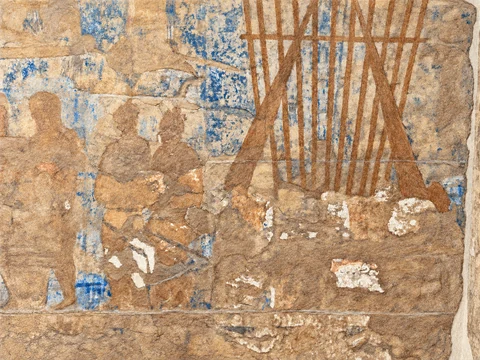
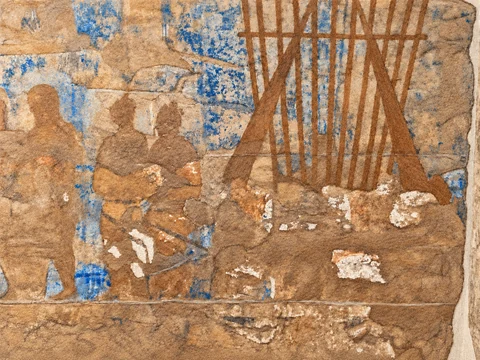
Add Bibi Khanym, Chashma Ayub and hotel view; clarify mural traces

diff --git a/src/render-guide.js b/src/render-guide.js
@@ -34,5 +34,6 @@ export function renderGuide(essentials = []) {
     ${[samarkand,tashkent,bishkek,cholponata,almaty].map(city=>renderNarrative(city,{id:`history-${city.slug}`,placement:city.slug})).join('')}
     ${renderNarrative(comparative,{id:'architecture-comparative',placement:'comparative'})}
     <section class="architecture-guide" id="architecture-guide"><h3>우즈베키스탄 이슬람 건축 유산</h3>${architecture.map(city=>`<details class="architecture-city"><summary><span class="city-name">${esc(city.city)} <small>${esc(city.en)}</small></span><span class="city-subtitle">${esc(city.subtitle)}</span></summary><div class="architecture-city-body"><p>${esc(city.intro)}</p>${renderIllustration(`architecture:${city.en}:intro`)}${city.sites.map(([name,en,description])=>`<div class="architecture-site"><h4>${esc(name)} <small>${esc(en)}</small></h4><p>${esc(description)}</p></div>`).join('')}</div></details>`).join('')}${renderSources([['UNESCO 사마르칸트','https://whc.unesco.org/en/list/603/'],['UNESCO 부하라','https://whc.unesco.org/en/list/602/']])}</section>
+    <details class="travel-lodging-view"><summary>숙소에서 본 풍경</summary><p>여행 메모: 3층 객실, 엘리베이터 없음. 호텔명은 확인 중입니다.</p>${renderIllustration('travel:lodging:view')}</details>
     ${essentials.filter(e=>e.title!=='현지 여행 회화').map(e=>`<details><summary>${esc(e.title)}</summary><p>${esc(e.body)}</p></details>`).join('')}`;
 }

diff --git a/tests/service-worker.test.js b/tests/service-worker.test.js
@@ -4,7 +4,7 @@ import fs from 'node:fs';
 import vm from 'node:vm';
 
 const source = fs.readFileSync(new URL('../public/sw.js', import.meta.url), 'utf8');
-const current = 'ca26-pages-v9-museum-photos';
+const current = 'ca26-pages-v10-sites-feathers';
 function worker({ put = async () => {}, fetch = async () => new Response('network') } = {}) {
   const stores = new Map(), handlers = {};
   const caches = {
@@ -32,7 +32,7 @@ function worker({ put = async () => {}, fetch = async () => new Response('networ
 
 test('worker upgrade deletes only older travel-guide caches and preserves other sites', async () => {
   const { stores, handlers } = worker();
-  for (const key of ['ca26-pages-v5-bukhara-registan', 'ca26-pages-v6-three-country-guide', 'ca26-pages-v7-minaret-refresh', 'ca26-pages-v8-reflection-cleanup', current, 'other-site-v1']) stores.set(key, new Map());
+  for (const key of ['ca26-pages-v5-bukhara-registan', 'ca26-pages-v6-three-country-guide', 'ca26-pages-v7-minaret-refresh', 'ca26-pages-v8-reflection-cleanup', 'ca26-pages-v9-museum-photos', current, 'other-site-v1']) stores.set(key, new Map());
   let completion;
   handlers.activate({ waitUntil: promise => { completion = promise; } });
   await completion;

diff --git a/public/sw.js b/public/sw.js
@@ -1,4 +1,4 @@
-const CACHE = 'ca26-pages-v9-museum-photos';
+const CACHE = 'ca26-pages-v10-sites-feathers';
 const CACHE_PREFIX = 'ca26-pages-';
 const ROOT = '/codex/';
 

diff --git a/docs/audit/destination-images.md b/docs/audit/destination-images.md
@@ -25,25 +25,25 @@ Pages Actions [39142365237](https://github.com/JinhaPark/codex/actions/runs/3914
 |---|---|---|---|---|---|---|
 | 대한민국 | 2026-10-12 인천 → 타슈켄트<br>2026-10-21 인천 도착 | 인천국제공항 | 없음 (확정 대응 없음) | 대응 그림 없음 | 선택 사항 | 이동 지점·포괄 도시 항목: 필수 사진 요청 대상 아님 |
 | 우즈베키스탄 | 2026-10-12 인천 → 타슈켄트 | 타슈켄트 국제공항 | 없음 (확정 대응 없음) | 대응 그림 없음 | 선택 사항 | 이동 지점·포괄 도시 항목: 필수 사진 요청 대상 아님 |
-| 우즈베키스탄 | 2026-10-13 타슈켄트 → 부하라 | 부하라 아르크 성채 | bukhara-ark-walls-pencil — 부하라 아르크 성채 — 벽돌 성벽과 돌출 보루 | 여행 해설 → 부하라 도시사 심층 해설 → 11. 부하라 칸국과 에미르국: 궁정과 권력 (bukhara:10:0) | 확보 | 없음 |
-| 우즈베키스탄 | 2026-10-13 타슈켄트 → 부하라 | 칼랸 미나레트 | bukhara-kalyan-minaret-pencil — 부하라 칼랸 미나레트 — 벽돌로 만든 기하학 장식 띠<br>bukhara-poi-kalyan-watercolor — 부하라 포이칼랸 — 미리아랍 마드라사와 칼랸 미나레트·모스크 | 여행 해설 → 부하라 도시사 심층 해설 → 5. 카라한 왕조와 칼랸 미나레트 (bukhara:4:1)<br>여행 해설 → 부하라 도시사 심층 해설 → 8. 샤이바니 왕조: 오늘날 옛 시가지의 골격 (bukhara:7:1) | 확보 | 없음 |
-| 우즈베키스탄 | 2026-10-13 타슈켄트 → 부하라 | 라비하우즈 | lyabi-hauz-evening-watercolor — 부하라 라비하우즈 — 연못가 식탁과 저녁 분수<br>lyabi-hauz-portal-watercolor — 부하라 라비하우즈 연못 — 분수와 아치형 입구 | 일정 3일차 → 방문지와 지도 (day:2:places)<br>여행 해설 → 부하라 도시사 심층 해설 → 9. 17세기 라비하우즈: 물·상업·교육의 만남 (bukhara:8:0) | 확보 | 없음 |
+| 우즈베키스탄 | 2026-10-13 타슈켄트 → 부하라 | 부하라 아르크 성채 | bukhara-ark-walls-pencil — 부하라 아르크 성채 — 벽돌 성벽과 돌출 보루 | 여행 해설 → 부하라 도시사 심층 해설 → 11. 부하라 칸국과 에미르국: 궁정과 권력 (`bukhara:10:0`) | 확보 | 없음 |
+| 우즈베키스탄 | 2026-10-13 타슈켄트 → 부하라 | 칼랸 미나레트 | bukhara-kalyan-minaret-pencil — 부하라 칼랸 미나레트 — 벽돌로 만든 기하학 장식 띠<br>bukhara-poi-kalyan-watercolor — 부하라 포이칼랸 — 미리아랍 마드라사와 칼랸 미나레트·모스크 | 여행 해설 → 부하라 도시사 심층 해설 → 5. 카라한 왕조와 칼랸 미나레트 (`bukhara:4:1`)<br>여행 해설 → 부하라 도시사 심층 해설 → 8. 샤이바니 왕조: 오늘날 옛 시가지의 골격 (`bukhara:7:1`) | 확보 | 없음 |
+| 우즈베키스탄 | 2026-10-13 타슈켄트 → 부하라 | 라비하우즈 | lyabi-hauz-evening-watercolor — 부하라 라비하우즈 — 연못가 식탁과 저녁 분수<br>lyabi-hauz-portal-watercolor — 부하라 라비하우즈 연못 — 분수와 아치형 입구 | 일정 3일차 → 방문지와 지도 (`day:2:places`)<br>여행 해설 → 부하라 도시사 심층 해설 → 9. 17세기 라비하우즈: 물·상업·교육의 만남 (`bukhara:8:0`) | 확보 | 없음 |
 | 우즈베키스탄 | 2026-10-13 타슈켄트 → 부하라 | 나디르 디반베기 마드라사 | 없음 (확정 대응 없음) | 대응 그림 없음 | 장소 확인 필요 | 라비하우즈 아치 사진 IMG_8854.jpeg는 마드라사 정면이라고 확정할 수 없음. 새·동물 문양의 정면 사진 필요 |
-| 우즈베키스탄 | 2026-10-14 부하라 → 사마르칸트 | 이스마일 사마니 영묘 | bukhara-samani-watercolor — 부하라 이스마일 사마니 영묘 — 돔과 벽돌 장식 | 여행 해설 → 부하라 도시사 심층 해설 → 4. 사만 왕조: 부하라의 첫 번째 황금기 (bukhara:3:0) | 확보 | 사진 추가 반영 완료; 실제 표시 위치는 최신 현황표 참조 |
-| 우즈베키스탄 | 2026-10-14 부하라 → 사마르칸트 | 차슈마 아유브 영묘 | 없음 (확정 대응 없음) | 대응 그림 없음 | 누락 | 장소가 식별되는 전경 또는 입구 사진 |
+| 우즈베키스탄 | 2026-10-14 부하라 → 사마르칸트 | 이스마일 사마니 영묘 | bukhara-samani-watercolor — 부하라 이스마일 사마니 영묘 — 돔과 벽돌 장식 | 여행 해설 → 부하라 도시사 심층 해설 → 4. 사만 왕조: 부하라의 첫 번째 황금기 (`bukhara:3:0`) | 확보 | 사진 추가 반영 완료; 실제 표시 위치는 최신 현황표 참조 |
+| 우즈베키스탄 | 2026-10-14 부하라 → 사마르칸트 | 차슈마 아유브 영묘 | bukhara-chashma-ayub-watercolor — 부하라 차슈마 아유브 — 원뿔형 지붕과 벽돌 외벽 | 여행 해설 → 부하라 → 15. 현장에서 읽는 부하라: 하루 답사법 (`bukhara:14:1`) | 확보 | 사진 추가 반영 완료 |
 | 우즈베키스탄 | 2026-10-14 부하라 → 사마르칸트 | 시토라이 모히 호사 궁전 | 없음 (확정 대응 없음) | 대응 그림 없음 | 누락 | 장소가 식별되는 전경 또는 입구 사진 |
-| 우즈베키스탄 | 2026-10-14 부하라 → 사마르칸트<br>2026-10-15 사마르칸트 → 타슈켄트 | 레기스탄 광장 | registan-travel-portrait-watercolor — 레기스탄 광장 — 세 마드라사를 배경으로<br>registan-gilded-ceiling-pencil — 레기스탄의 청색·금빛 천장 장식<br>samarkand-turquoise-dome-pencil — 레기스탄 — 나무 사이로 보이는 청록색 돔 | 여행 해설 → 사마르칸트 → 레기스탄의 세 마드라사 (samarkand:9:0)<br>여행 해설 → 이슬람 건축 읽기 — 벽돌·타일·곡선 → 재료에서 공간으로 (comparative:0:6)<br>여행 해설 → 건축 유산 → 사마르칸트 (architecture:Samarkand:intro) | 확보 | 없음; 개별 전각명은 미확정 |
-| 우즈베키스탄 | 2026-10-15 사마르칸트 → 타슈켄트 | 비비하눔 모스크 | 없음 (확정 대응 없음) | 대응 그림 없음 | 누락 | 장소가 식별되는 전경 또는 입구 사진 |
-| 우즈베키스탄 | 2026-10-15 사마르칸트 → 타슈켄트 | 아프라시압 박물관 | afrasiyab-envoys-pencil — 아프라시압 벽화 — 깃털 관모의 인물들 | 여행 해설 → 사마르칸트 → 소그드 상인과 세계의 교차로 (samarkand:1:0) | 확보 | 사진 추가 반영 완료; 실제 표시 위치는 최신 현황표 참조 |
-| 우즈베키스탄 | 2026-10-15 사마르칸트 → 타슈켄트 | 울루그벡 천문대 | ulughbeg-meridian-pencil — 울루그벡 천문대 — 지하 자오선 관측기의 곡선 눈금<br>ulughbeg-year-exhibit-photo — 울루그벡 천문대 전시 — 행성 운동과 1년 길이 비교<br>ulughbeg-statue-pencil — 사마르칸트 울루그벡 동상 — 앉은 모습과 명판 | 여행 해설 → 사마르칸트 → 울루그베크와 천문학의 도시 (samarkand:8:0)<br>여행 해설 → 사마르칸트 → 울루그베크와 천문학의 도시 (samarkand:8:1)<br>여행 해설 → 사마르칸트 → 울루그베크와 천문학의 도시 (samarkand:8:2) | 확보 | 사진 추가 반영 완료; 실제 표시 위치는 최신 현황표 참조 |
+| 우즈베키스탄 | 2026-10-14 부하라 → 사마르칸트<br>2026-10-15 사마르칸트 → 타슈켄트 | 레기스탄 광장 | registan-travel-portrait-watercolor — 레기스탄 광장 — 세 마드라사를 배경으로<br>registan-gilded-ceiling-pencil — 레기스탄의 청색·금빛 천장 장식<br>samarkand-turquoise-dome-pencil — 레기스탄 — 나무 사이로 보이는 청록색 돔 | 여행 해설 → 사마르칸트 → 레기스탄의 세 마드라사 (`samarkand:9:0`)<br>여행 해설 → 이슬람 건축 읽기 — 벽돌·타일·곡선 → 재료에서 공간으로 (`comparative:0:6`)<br>여행 해설 → 우즈베키스탄 이슬람 건축 유산 → 사마르칸트 Samarkand청색 타일의 도시 (`architecture:Samarkand:intro`) | 확보 | 없음; 개별 전각명은 미확정 |
+| 우즈베키스탄 | 2026-10-15 사마르칸트 → 타슈켄트 | 비비하눔 모스크 | samarkand-bibi-khanym-watercolor — 사마르칸트 비비하눔 모스크 — 청록색 돔과 미나레트 | 여행 해설 → 사마르칸트 → 비비하눔 모스크의 야망과 구조 (`samarkand:6:0`) | 확보 | 사진 추가 반영 완료 |
+| 우즈베키스탄 | 2026-10-15 사마르칸트 → 타슈켄트 | 아프라시압 박물관 | afrasiyab-envoys-pencil — 아프라시압 벽화 — 깃털 관모의 인물들 | 여행 해설 → 사마르칸트 → 소그드 상인과 세계의 교차로 (`samarkand:1:0`) | 확보 | 사진 추가 반영 완료; 실제 표시 위치는 최신 현황표 참조 |
+| 우즈베키스탄 | 2026-10-15 사마르칸트 → 타슈켄트 | 울루그벡 천문대 | ulughbeg-meridian-pencil — 울루그벡 천문대 — 지하 자오선 관측기의 곡선 눈금<br>ulughbeg-year-exhibit-photo — 울루그벡 천문대 전시 — 행성 운동과 1년 길이 비교<br>ulughbeg-statue-pencil — 사마르칸트 울루그벡 동상 — 앉은 모습과 명판 | 여행 해설 → 사마르칸트 → 울루그베크와 천문학의 도시 (`samarkand:8:0`)<br>여행 해설 → 사마르칸트 → 울루그베크와 천문학의 도시 (`samarkand:8:1`)<br>여행 해설 → 사마르칸트 → 울루그베크와 천문학의 도시 (`samarkand:8:2`) | 확보 | 사진 추가 반영 완료; 실제 표시 위치는 최신 현황표 참조 |
 | 우즈베키스탄 | 2026-10-15 사마르칸트 → 타슈켄트 | 구르에미르 영묘 | 없음 (확정 대응 없음) | 대응 그림 없음 | 누락 | 장소가 식별되는 전경 또는 입구 사진 |
-| 우즈베키스탄 → 키르기스스탄 | 2026-10-16 타슈켄트 → 비슈케크 | 타슈켄트 미노르 모스크 | tashkent-minor-ceiling-pencil — 타슈켄트 미노르 모스크 — 청색·금빛 원형 천장 | 여행 해설 → 타슈켄트 → 미노르 모스크와 현대 이슬람 건축 (tashkent:10:0) | 확보 | 사진 추가 반영 완료; 실제 표시 위치는 최신 현황표 참조 |
+| 우즈베키스탄 → 키르기스스탄 | 2026-10-16 타슈켄트 → 비슈케크 | 타슈켄트 미노르 모스크 | tashkent-minor-ceiling-pencil — 타슈켄트 미노르 모스크 — 청색·금빛 원형 천장 | 여행 해설 → 타슈켄트 → 미노르 모스크와 현대 이슬람 건축 (`tashkent:10:0`) | 확보 | 사진 추가 반영 완료; 실제 표시 위치는 최신 현황표 참조 |
 | 우즈베키스탄 → 키르기스스탄 | 2026-10-16 타슈켄트 → 비슈케크 | 아미르 티무르 광장 | 없음 (확정 대응 없음) | 대응 그림 없음 | 누락 | 장소가 식별되는 전경 또는 입구 사진 |
 | 우즈베키스탄 → 키르기스스탄 | 2026-10-16 타슈켄트 → 비슈케크 | 하즈라티 이맘 단지 | 없음 (확정 대응 없음) | 대응 그림 없음 | 장소 확인 필요 | 필사본 사진 IMG_CCB3F9C2-FF9E-4904-8198-27036C9E7AA7.jpeg의 실제 촬영 장소 확인 또는 단지 전경 |
 | 우즈베키스탄 → 키르기스스탄 | 2026-10-16 타슈켄트 → 비슈케크 | 마나스 국제공항 | 없음 (확정 대응 없음) | 대응 그림 없음 | 선택 사항 | 이동 지점·포괄 도시 항목: 필수 사진 요청 대상 아님 |
-| 키르기스스탄 | 2026-10-17 비슈케크 → 촐폰아타 | 루흐 오르도 문화센터 | rukh-ordo-garden-pencil — 촐폰아타 루흐 오르도 문화센터의 조각 정원 | 여행 해설 → 촐폰아타 → 루흐 오르도 문화센터의 상징 (cholponata:9:0) | 부분 확보 | 조각 정원 확보. 단지 입구·전체 배치 또는 주요 건물 사진 추가 가능 |
-| 키르기스스탄 | 2026-10-17 비슈케크 → 촐폰아타 | 촐폰아타 암각화 | cholponata-petroglyph-field-watercolor — 촐폰아타 암각화 야외박물관 — 바위 들판과 답사로<br>cholponata-balbal-pencil — 촐폰아타 암각화 야외박물관의 발발(Balbal) 인물 석상 | 여행 해설 → 촐폰아타 → 암각화의 시간층 (cholponata:2:0)<br>일정 6일차 → 방문지와 지도 (day:5:places) | 부분 확보 | 야외박물관 들판과 발발 확보. 바위의 암각 문양이 보이는 근접 사진 필요 |
-| 키르기스스탄 | 2026-10-17 비슈케크 → 촐폰아타 | 이식쿨 호수 | issyk-kul-cruise-tian-shan-watercolor — 이식쿨호 유람선에서 바라본 톈산산맥의 설산 능선 | 여행 해설 → 1. 지리·기후·생활양식 → 이식쿨과 알마티의 서로 다른 산록 (geography:2:0) | 확보 | 없음 |
+| 키르기스스탄 | 2026-10-17 비슈케크 → 촐폰아타 | 루흐 오르도 문화센터 | rukh-ordo-garden-pencil — 촐폰아타 루흐 오르도 문화센터의 조각 정원 | 여행 해설 → 촐폰아타 → 루흐 오르도 문화센터의 상징 (`cholponata:9:0`) | 부분 확보 | 조각 정원 확보. 단지 입구·전체 배치 또는 주요 건물 사진 추가 가능 |
+| 키르기스스탄 | 2026-10-17 비슈케크 → 촐폰아타 | 촐폰아타 암각화 | cholponata-petroglyph-field-watercolor — 촐폰아타 암각화 야외박물관 — 바위 들판과 답사로<br>cholponata-balbal-pencil — 촐폰아타 암각화 야외박물관의 발발(Balbal) 인물 석상 | 여행 해설 → 촐폰아타 → 암각화의 시간층 (`cholponata:2:0`)<br>일정 6일차 → 방문지와 지도 (`day:5:places`) | 부분 확보 | 야외박물관 들판과 발발 확보. 바위의 암각 문양이 보이는 근접 사진 필요 |
+| 키르기스스탄 | 2026-10-17 비슈케크 → 촐폰아타 | 이식쿨 호수 | issyk-kul-cruise-tian-shan-watercolor — 이식쿨호 유람선에서 바라본 톈산산맥의 설산 능선 | 여행 해설 → 1. 지리·기후·생활양식 → 이식쿨과 알마티의 서로 다른 산록 (`geography:2:0`) | 확보 | 없음 |
 | 키르기스스탄 | 2026-10-17 비슈케크 → 촐폰아타 | 촐폰아타 | 없음 (확정 대응 없음) | 대응 그림 없음 | 선택 사항 | 이동 지점·포괄 도시 항목: 필수 사진 요청 대상 아님 |
 | 키르기스스탄 → 카자흐스탄 | 2026-10-18 촐폰아타 → 알마티 | 알라아르차 국립공원 | 없음 (확정 대응 없음) | 대응 그림 없음 | 누락 | 장소가 식별되는 전경 또는 입구 사진 |
 | 키르기스스탄 → 카자흐스탄 | 2026-10-18 촐폰아타 → 알마티 | 코르다이 국경 | 없음 (확정 대응 없음) | 대응 그림 없음 | 선택 사항 | 이동 지점·포괄 도시 항목: 필수 사진 요청 대상 아님 |
@@ -56,17 +56,18 @@ Pages Actions [39142365237](https://github.com/JinhaPark/codex/actions/runs/3914
 | 카자흐스탄 | 2026-10-20 알마티 → 귀국 항공편 | 젠코프 승천 성당 | 없음 (확정 대응 없음) | 대응 그림 없음 | 누락 | 장소가 식별되는 전경 또는 입구 사진 |
 | 카자흐스탄 | 2026-10-20 알마티 → 귀국 항공편 | 그린 바자르 | 없음 (확정 대응 없음) | 대응 그림 없음 | 누락 | 장소가 식별되는 전경 또는 입구 사진 |
 | 카자흐스탄 | 2026-10-20 알마티 → 귀국 항공편 | 아르바트 거리 | 없음 (확정 대응 없음) | 대응 그림 없음 | 누락 | 장소가 식별되는 전경 또는 입구 사진 |
-| 우즈베키스탄 | 2026-10-13 타슈켄트 → 부하라 (일정 요약) | 부하라 돔형 바자르 | bukhara-market-sunset-watercolor — 부하라 돔 시장 — 일몰 무렵의 광장 | 일정 2일차 → 방문지와 지도 (day:1:places) | 확보 | 없음; 개별 돔 시장명은 미확정 |
-| 우즈베키스탄 → 키르기스스탄 | 2026-10-16 타슈켄트 → 비슈케크 (일정 요약) | 브로드웨이 거리 | 없음 (확정 대응 없음) | 대응 그림 없음 | 누락 | 장소가 식별되는 전경 또는 입구 사진 |
-| 키르기스스탄 | 2026-10-17 비슈케크 → 촐폰아타 (일정 요약) | 베르메트 야외 온천 | 없음 (확정 대응 없음) | 대응 그림 없음 | 누락 | 장소가 식별되는 전경 또는 입구 사진 |
-| 보조 항목 |  | Karven Four Seasons 리조트 | autumn-birch-walk-watercolor — Karven Four Seasons 리조트의 자작나무길 | 일정 7일차 → 여행 관찰 포인트 (day:6:tip) | 선택 사항 | 숙박 보조: 자작나무길 확보 |
-| 보조 항목 |  | 비슈케크 SB bar | travel-steak-table-pencil — 비슈케크 SB bar — 토마호크 스테이크와 샐러드 | 일정 5일차 → 방문지와 지도 (day:4:places) | 선택 사항 | 식사 보조: 식탁 확보 |
-| 보조 항목 |  | 꿀 구입·향신료·식판·거리 차량 | white-honey-jar-pencil — 흰색 뚜껑의 꿀 용기<br>suusamyr-honey-pencil — 수우사미르 산악 야생화꿀 — 노란 뚜껑과 초록색 라벨<br>bukhara-spice-stall-pencil — 부하라 향신료 가게 — 진열된 향신료와 차 시음<br>travel-meal-tray-pencil — 깨가 뿌려진 갈색 반찬과 잎채소를 담은 식판<br>street-classic-car-pencil — 타슈켄트 거리 — 모스크비치(Moskvich) 세단 | 환율/회화 → 쇼핑 → 꿀 비교 (shopping:honey:white)<br>환율/회화 → 쇼핑 → 꿀 비교 (shopping:honey:yellow)<br>여행 해설 → 1. 지리·기후·생활양식 → 오아시스의 집과 계절 목초지 (geography:1:1)<br>일정 2일차 → 여행 관찰 포인트 (day:1:tip)<br>일정 5일차 → 여행 관찰 포인트 (day:4:tip) | 선택 사항 | 쇼핑·식사·거리 보조: 관광지 확보로 대체하지 않음 |
-| 미확인 |  | 촬영지 미확인 산간 농경지 | mountain-orchards-watercolor — 설산 아래 가을빛 농경지 | 여행 해설 → 1. 지리·기후·생활양식 → 오아시스의 집과 계절 목초지 (geography:1:0) | 장소 확인 필요 | 사진의 촬영 장소를 사용자 설명으로 확인; 확인 전 특정 관광지에 배정하지 않음 |
-| 미확인 |  | 장소 미확인 청색 타일 아치 | uzbek-tilework-pencil — 아치와 벽면을 채운 청색 기하학 문양 | 여행 해설 → 이슬람 건축 읽기 — 벽돌·타일·곡선 → 재료에서 공간으로 (comparative:0:0) | 장소 확인 필요 | 사진의 촬영 장소를 사용자 설명으로 확인; 확인 전 특정 관광지에 배정하지 않음 |
-| 미확인 |  | 촬영지 미확인 아랍 문자 필사본 | arabic-manuscript-pencil — 아랍 문자 필사본 — 검정·붉은 필기와 제본 | 여행 해설 → 타슈켄트 → 하즈라티 이맘과 종교 학문 (tashkent:7:0) | 장소 확인 필요 | 사진의 촬영 장소를 사용자 설명으로 확인; 확인 전 특정 관광지에 배정하지 않음 |
-| 미확인 | 촬영 전시관·출토지·연대 미확인 | 유골함 전시(촬영 박물관 미확인) | zoroastrian-ossuary-pencil — 유골함 전시 — 토제 용기와 내부 유골 | 여행 해설 → 2. 역사 → 오아시스와 초원이 함께 만든 교역망 (history:0:2) | 장소 확인 필요 | 조로아스터교 유골함이라는 사용자 설명을 기록; 촬영 박물관명·전시 라벨 확인 가능하면 보완 |
-| 전시자료 | 전시관 미확인; 아랄해 실제 방문을 뜻하지 않음 | 아랄해 축소 전시자료 | aral-sea-exhibit-photo — 아랄해 축소 전시 — 연도별 수면 지도와 드러난 호저 | 여행 해설 → 3. 자원·에너지 → 우즈베키스탄: 관개와 가스에서 전환으로 (resources:0:1) | 선택 사항 | 관개·염류 설명의 보조 자료; 관광지 누락 수에 포함하지 않음 |
+| 우즈베키스탄 | 2026-10-13 타슈켄트 → 부하라 (일정 요약) | 부하라 돔형 바자르 | bukhara-market-sunset-watercolor — 부하라 돔 시장 — 일몰 무렵의 광장 | 일정 2일차 → 방문지와 지도 (`day:1:places`) | 확보 | 없음; 개별 돔 시장명은 미확정 |
+| 우즈베키스탄 → 키르기스스탄 | 2026-10-16 타슈켄트 → 비슈케크 (일정 요약) | 브로드웨이 거리 | 없음 (확정 대응 없음) | 대응 그림 없음 | 누락 | 사용자 확인: 별도 사진 없음. 추가 사진 요청 보류; 대응 이미지 없음 |
+| 키르기스스탄 | 2026-10-17 비슈케크 → 촐폰아타 (일정 요약) | 베르메트 야외 온천 | 없음 (확정 대응 없음) | 대응 그림 없음 | 누락 | 사용자 확인: 별도 사진 없음. 추가 사진 요청 보류; 대응 이미지 없음 |
+| 보조 항목 |  | Karven Four Seasons 리조트 | autumn-birch-walk-watercolor — Karven Four Seasons 리조트의 자작나무길 | 일정 7일차 → 여행 관찰 포인트 (`day:6:tip`) | 선택 사항 | 숙박 보조: 자작나무길 확보 |
+| 보조 항목 |  | 비슈케크 SB bar | travel-steak-table-pencil — 비슈케크 SB bar — 토마호크 스테이크와 샐러드 | 일정 5일차 → 방문지와 지도 (`day:4:places`) | 선택 사항 | 식사 보조: 식탁 확보 |
+| 보조 항목 |  | 꿀 구입·향신료·식판·거리 차량 | white-honey-jar-pencil — 흰색 뚜껑의 꿀 용기<br>suusamyr-honey-pencil — 수우사미르 산악 야생화꿀 — 노란 뚜껑과 초록색 라벨<br>bukhara-spice-stall-pencil — 부하라 향신료 가게 — 진열된 향신료와 차 시음<br>travel-meal-tray-pencil — 깨가 뿌려진 갈색 반찬과 잎채소를 담은 식판<br>street-classic-car-pencil — 타슈켄트 거리 — 모스크비치(Moskvich) 세단 | 환율/회화 → 쇼핑 · 키르기스스탄 꼬냑과 꿀 → 꿀 · 직접 구입한 제품 비교 (`shopping:honey:white`)<br>환율/회화 → 쇼핑 · 키르기스스탄 꼬냑과 꿀 → 꿀 · 직접 구입한 제품 비교 (`shopping:honey:yellow`)<br>여행 해설 → 1. 지리·기후·생활양식 → 오아시스의 집과 계절 목초지 (`geography:1:1`)<br>일정 2일차 → 여행 관찰 포인트 (`day:1:tip`)<br>일정 5일차 → 여행 관찰 포인트 (`day:4:tip`) | 선택 사항 | 쇼핑·식사·거리 보조: 관광지 확보로 대체하지 않음 |
+| 미확인 |  | 촬영지 미확인 산간 농경지 | mountain-orchards-watercolor — 설산 아래 가을빛 농경지 | 여행 해설 → 1. 지리·기후·생활양식 → 오아시스의 집과 계절 목초지 (`geography:1:0`) | 장소 확인 필요 | 사진의 촬영 장소를 사용자 설명으로 확인; 확인 전 특정 관광지에 배정하지 않음 |
+| 미확인 |  | 장소 미확인 청색 타일 아치 | uzbek-tilework-pencil — 아치와 벽면을 채운 청색 기하학 문양 | 여행 해설 → 이슬람 건축 읽기 — 벽돌·타일·곡선 → 재료에서 공간으로 (`comparative:0:0`) | 장소 확인 필요 | 사진의 촬영 장소를 사용자 설명으로 확인; 확인 전 특정 관광지에 배정하지 않음 |
+| 미확인 |  | 촬영지 미확인 아랍 문자 필사본 | arabic-manuscript-pencil — 아랍 문자 필사본 — 검정·붉은 필기와 제본 | 여행 해설 → 타슈켄트 → 하즈라티 이맘과 종교 학문 (`tashkent:7:0`) | 장소 확인 필요 | 사진의 촬영 장소를 사용자 설명으로 확인; 확인 전 특정 관광지에 배정하지 않음 |
+| 미확인 | 촬영 전시관·출토지·연대 미확인 | 유골함 전시(촬영 박물관 미확인) | zoroastrian-ossuary-pencil — 유골함 전시 — 토제 용기와 내부 유골 | 여행 해설 → 2. 역사 → 오아시스와 초원이 함께 만든 교역망 (`history:0:2`) | 장소 확인 필요 | 조로아스터교 유골함이라는 사용자 설명을 기록; 촬영 박물관명·전시 라벨 확인 가능하면 보완 |
+| 전시자료 | 전시관 미확인; 아랄해 실제 방문을 뜻하지 않음 | 아랄해 축소 전시자료 | aral-sea-exhibit-photo — 아랄해 축소 전시 — 연도별 수면 지도와 드러난 호저 | 여행 해설 → 3. 자원·에너지 → 우즈베키스탄: 관개와 가스에서 전환으로 (`resources:0:1`) | 선택 사항 | 관개·염류 설명의 보조 자료; 관광지 누락 수에 포함하지 않음 |
+| 보조 항목 | 촬영일 메타데이터 없음; 숙박일·호텔명 미확인 | 호텔 객실에서 본 수영장·정원(호텔명 미확인) | hotel-pool-garden-watercolor — 숙소에서 내려다본 수영장과 정원 | 여행 해설 → 숙소에서 본 풍경 (`travel:lodging:view`) | 선택 사항 | 관광지 누락과 별도 관리. 사용자 메모: 3층 객실·엘리베이터 없음. 호텔명 또는 촬영일 확인 시 숙박 일정에 연결 |
 
 ## 기존 업로드 재검토와 미처리 사진
 
@@ -107,15 +108,15 @@ Pages Actions [39142365237](https://github.com/JinhaPark/codex/actions/runs/3914
 ### 우선: 부하라·사마르칸트·타슈켄트의 개별 관광지
 
 1. 이스마일 사마니 영묘 — 확보 완료 — 이번 추가 사진 반영
-2. 차슈마 아유브 영묘 — 누락 — 장소가 식별되는 전경 또는 입구 사진
+2. 차슈마 아유브 영묘 — 확보 완료 — IMG_8877 반영
 3. 시토라이 모히 호사 궁전 — 누락 — 장소가 식별되는 전경 또는 입구 사진
-4. 비비하눔 모스크 — 누락 — 장소가 식별되는 전경 또는 입구 사진
+4. 비비하눔 모스크 — 확보 완료 — IMG_8908 반영
 5. 아프라시압 박물관 — 확보 완료 — 이번 추가 사진 반영
 6. 울루그벡 천문대 — 확보 완료 — 이번 추가 사진 반영
 7. 구르에미르 영묘 — 누락 — 장소가 식별되는 전경 또는 입구 사진
 8. 타슈켄트 미노르 모스크 — 확보 완료 — 이번 추가 사진 반영
 9. 아미르 티무르 광장 — 누락 — 장소가 식별되는 전경 또는 입구 사진
-10. 브로드웨이 거리 — 누락 — 장소가 식별되는 전경 또는 입구 사진
+10. 브로드웨이 거리 — 누락·별도 사진 없음 — 사용자 확인, 추가 요청 보류
 
 ### 확인·보완
 
@@ -126,7 +127,7 @@ Pages Actions [39142365237](https://github.com/JinhaPark/codex/actions/runs/3914
 
 ### 추가 확보·미방문이면 추후 촬영
 
-15. 베르메트 야외 온천 — 누락 — 장소가 식별되는 전경 또는 입구 사진
+15. 베르메트 야외 온천 — 누락·별도 사진 없음 — 사용자 확인, 추가 요청 보류
 16. 알라아르차 국립공원 — 누락 — 장소가 식별되는 전경 또는 입구 사진
 17. 차른 협곡 — 누락 — 장소가 식별되는 전경 또는 입구 사진
 18. 루나 캐니언 — 누락 — 장소가 식별되는 전경 또는 입구 사진
@@ -226,3 +227,19 @@ Pages Actions [39142365237](https://github.com/JinhaPark/codex/actions/runs/3914
 2026-10-18T16:54:51.690Z, Chromium153.0.8010.0, 로컬 프로덕션 빌드 index-BgUrfAyR.js / index-DhzJzpNS.css. 동상 앞 관람객과 벽화 앞 팔·손을 제거하고 유골함을 가로 방향으로 정리한 최종3점을 포함하여 전체31점·87WebP를 검증했다. 375·390·430px 모든 배치의 캡션·비율·가로 넘침·세로 높이, 실제87개 디코딩, 새8점의 방문 후 오프라인 재열람, 준비물 저장과 v8→v9 통제 캐시 업데이트가 통과했다. npm test14/14·build·Pillow87개 전수 검사도 통과했다. 실제 iPhone Safari는 미검증이며 main 병합·배포는 하지 않았다.
 
 브랜치: `audit/destination-images-20261018`, PR #2. 최종 수정 커밋은 이 절을 포함하는 PR 최신 커밋으로 확인한다. 미처리 사진 변환은 없으며, 남은 작업은 누락16곳의 사진 입력과 장소 확인11·12, 부분 보완13·14, 유골함의 촬영 전시관 확인이다. 새 Work에서는 최신 main/PR head와 이 기록을 먼저 확인한다.
+
+
+## 최신 인계: 비비하눔·욥의 샘·호텔 전경과 깃털 명료화
+
+같은 브랜치 `audit/destination-images-20261018`와 PR #2에서 이어갔다. 시작 시 main은 cab4dabc, 작업 브랜치는 1f7a5ed였다. 새 사진3장 모두 직접 확인했으며 IMG_8908→비비하눔, IMG_8877→차슈마 아유브는 사용자 설명으로 확정했다. IMG_8888은 객실 내부가 아니라 객실에서 내려다본 수영장·정원이다. 세 JPEG의 EXIF에는 Orientation=1만 있고 DateTime/DateTimeOriginal/DateTimeDigitized 및 시간대 값은 없었다. 업로드 시각이나 연속 파일번호는 촬영일로 사용하지 않았다. 따라서 일정의 호텔명을 임의 확정하지 않고 별도 ‘숙소에서 본 풍경’에1회 배치했다. 사용자 메모 ‘3층 객실·엘리베이터 없음’을 표시하며, 호텔명 또는 촬영일을 받으면 해당 숙박 일정에 연결한다. 원본 메타데이터는 공개하지 않는다.
+
+욥의 샘 하단 백발 남성을 머리·안경·상체·카메라 끈까지 제거하고 주변 포장면으로 정리했다. 하늘의 가는 전선도 제거했다. 나머지 관람객과 건축 구도를 유지한다. 벽화는 기존 손 제거 상태를 유지하며, 원본에 남은 깃털 흔적과 관모 경계를 명료화했다. 완전하고 큰 깃털을 추가한 첫 시안은 폐기하고 훼손된 흔적을 보존한 수정본을 채택했다. 역사적 복원이나 인물 신원 확증으로 설명하지 않는다.
+
+관광지30곳은 확보12·부분2·장소 확인2·누락14다. 누락14곳 중 브로드웨이(10)와 베르메트 온천(15)은 사용자가 별도 사진이 없다고 했으므로 추가 업로드 요청을 보류한다. 현재 사진 요청 대기는3·7·9·16–24의12곳, 장소 확인11·12와 부분 보완13·14다. 날짜만으로 실제 방문·미방문을 판정하지 않는다. 호텔 사진은 온천을 대신하지 않는다. 유골함·산간 풍경·문양·필사본의 미확인 장소도 그대로다.
+
+추가3점9파일과 기존 벽화1점3파일 교체 후 총34점96WebP다. 원본JPEG/PNG는 커밋하지 않으며 최적화 결과·최종 프롬프트와 실제 검증은 images.md, photo-batch-prompts-20261018.md, browser.md/json에 기록한다. main 병합·배포는 별도 요청 대기다. 다음 Work는 PR 최신 head와 이 최신 절을 읽고 남은 사진·호텔명 확인부터 이어간다.
+
+
+## 비비하눔·욥의 샘·호텔 전경·깃털 수정 회귀
+
+2026-10-18T18:09:01.969Z, Chromium153.0.8010.0, 로컬 프로덕션 빌드 index-BJMQbumI.js / index-DhzJzpNS.css. 375·390·430px에서 전체34개ID의 각1회 실제 표시, 캡션 일치·제작문구 부재·종횡비·가로 넘침·세로 높이를 검사했다. 전체96WebP를 디코딩했고, 새 비비하눔·욥의 샘·호텔 전경과 수정 벽화를 방문해 캐시한 뒤 오프라인 새로고침 후 재열람·재디코딩했다. v9 캐시명/현재 앱 통제fixture→v10 전환과 타 사이트 캐시 보존, 준비물 저장·10일 일정·4탭·지도40링크도 통과했다. npm test14/14, build, Pillow96개 전수 디코딩·규격·비율·용량·메타데이터·비중복 검사 통과. 실제 iPhone Safari와 PR 배포·라이브 환율·실제 과거 배포 번들 전체 마이그레이션은 미검증이다.

diff --git a/docs/audit/photo-batch-prompts-20261018.md b/docs/audit/photo-batch-prompts-20261018.md
@@ -36,3 +36,26 @@ Remove the entire modern pointing hand, fingers, forearm, sleeve and clothing at
 
 ### zoroastrian-ossuary-pencil
 Reorient the existing ossuary illustration90 degrees counterclockwise to a horizontal4:3 composition, skull toward left, other bones toward right and open interior facing upward. Preserve the vessel, broken rim and bone arrangement, without adding remains, labels or watermark.
+
+
+## 추가 사진3장과 깃털 명료화 — 2차 배치
+
+### samarkand-bibi-khanym-watercolor
+
+Use case: style-transfer. Transform this exact user photo of Bibi-Khanym Mosque into a delicate watercolor travel illustration matching the guide's existing natural-color watercolor paintings. Preserve exact portrait 3:4 composition, large turquoise ribbed dome on left, tall patterned minaret on right, arches, brick wall, blue tile surfaces, low glass structure, sunlight and every architectural proportion. Keep the few cropped visitors at the bottom in their original positions. Do not invent buildings, inscriptions, tile motifs, people or missing details; retain only observed detail with restrained watercolor simplification. Remove any overhead power wires, poles or camera/window glare if present, preserving the mosque minaret and architectural columns. No crop, added text, labels, frame or watermark.
+
+### bukhara-chashma-ayub-watercolor
+
+Use case: style-transfer and precise-object-edit. Transform this exact user photo of Chashma-Ayub (Job's Spring) in Bukhara into a refined natural-color watercolor travel illustration. Preserve landscape 4:3 framing, exact brick building, conical tower, dome, wall openings, paths, bench and remaining visitor positions. Remove the large white/gray-haired man at lower center-left entirely, including head, sunglasses, neck, shoulders, shirt and camera strap. Reconstruct only the pavement naturally visible behind him, leaving no body fragments. Keep other visitors in their existing positions. Remove all overhead power lines and utility poles completely, including faint diagonal wire across blue sky; retain architectural pipes and building details. Remove only photographic glare. Do not invent architectural details, lettering, additional visitors or landmarks. Gentle paper grain, translucent washes, detailed masonry in harmony with existing guide watercolors. No crop, captions or watermark.
+
+### hotel-pool-garden-watercolor
+
+Use case: style-transfer. Transform this exact elevated view from a hotel room into a refined watercolor travel illustration. Preserve exact portrait 3:4 composition and proportions: rectangular blue swimming pool, attached small round pool at right, white loungers along rear edge, closed central parasol, trees and landscaped shrubs in foreground, paths, boundary wall and low building in background, warm sunlight and natural shadows. Match existing watercolor travel-guide illustrations with transparent washes, restrained paper grain and faithful natural colors. This photo shows the view from a room, not the room interior: do not add a room, balcony, elevator, hotel name, floor number, signs or people. Remove camera/window glare or overhead power wires and utility poles if present; preserve trees and pool fixtures. No invented lettering; preserve the small existing pool sign only as observed, with indistinct text kept indistinct. No crop, captions or watermark.
+
+### afrasiyab-envoys-pencil
+
+Use case: precise-object-edit. Image 1 is the edit target: the existing colored-pencil illustration of the Afrasiyab mural with all modern visitor arms/hands already removed. Image 2 is the original photograph, reference only for surviving ancient paint details. Improve the visibility of the existing feather ornaments above the hats of the two middle-left ancient figures, faithfully tracing only feather shapes actually surviving in the original photograph. Make their delicate pale feather outlines and the dark hat boundaries somewhat clearer with precise pencil strokes and local contrast, so they remain readable on a small mobile image. The feathers are narrow upright ornaments immediately above those hats; do not add large plumage, change their number or location, redesign headgear, or reconstruct lost historical details. Preserve all surviving ancient faces, bodies, cracks, missing plaster, blue/brown pigments, right-hand lattice and exact landscape 4:3 framing. Keep the lower-left free of modern arm, sleeve, hand and fingers. Reduce overly coarse pencil grain around hat details if necessary. No new people, text, labels, watermark, crop or imagined restoration.
+
+벽화의 첫 수정 시안은 깃털을 지나치게 완전한 형태로 그려 채택하지 않았다. 최종 지시는 새 깃털·깃가지·깃털 수를 추가하지 않고 원본의 작고 불완전한 옅은 선만 명료화하는 것이었다. 최종본: exec-23d81a25-6e3d-45bf-9f7f-200683352e39.png.
+
+최종 벽화 수정 지시: Precise local editing, not historical reconstruction. First image is the already approved colored-pencil mural with modern hand removed; preserve that image. Second is the original museum photo, for exact weathered feather placement. Only clarify the faint surviving pale strokes immediately attached to the hats of the two adjacent central-left figures (not the far-left figure). Keep those strokes at their existing small scale, angle and position: gently strengthen the narrow broken outlines, matching worn ochre/ivory ancient pigment. Do NOT draw a new whole feather, do NOT add crisp white leaf-like ornaments, detailed feather barbs, tall quills or hypothetical plume shapes. The visible traces may remain incomplete. Keep every face/hat, bodily outline and missing plaster unchanged; same 4:3 composition, same blue/brown palette. Keep all modern arm/hand/fingers absent. Gentle pencil lines around original traces only; no invented restoration, no text, crop or watermark.

diff --git a/docs/audit/browser.md b/docs/audit/browser.md
@@ -75,3 +75,8 @@
 ## 인물 제거·유골함 방향 수정본 최종 검증
 
 2026-10-18T16:54:51.690Z, Chromium153.0.8010.0, 로컬 프로덕션 빌드 index-BgUrfAyR.js / index-DhzJzpNS.css. 동상 앞 관람객과 벽화 앞 팔·손을 제거하고 유골함을 가로 방향으로 정리한 최종3점을 포함하여 전체31점·87WebP를 검증했다. 375·390·430px 모든 배치의 캡션·비율·가로 넘침·세로 높이, 실제87개 디코딩, 새8점의 방문 후 오프라인 재열람, 준비물 저장과 v8→v9 통제 캐시 업데이트가 통과했다. npm test14/14·build·Pillow87개 전수 검사도 통과했다. 실제 iPhone Safari는 미검증이며 main 병합·배포는 하지 않았다.
+
+
+## 비비하눔·욥의 샘·호텔 전경·깃털 수정 회귀
+
+2026-10-18T18:09:01.969Z, Chromium153.0.8010.0, 로컬 프로덕션 빌드 index-BJMQbumI.js / index-DhzJzpNS.css. 375·390·430px에서 전체34개ID의 각1회 실제 표시, 캡션 일치·제작문구 부재·종횡비·가로 넘침·세로 높이를 검사했다. 전체96WebP를 디코딩했고, 새 비비하눔·욥의 샘·호텔 전경과 수정 벽화를 방문해 캐시한 뒤 오프라인 새로고침 후 재열람·재디코딩했다. v9 캐시명/현재 앱 통제fixture→v10 전환과 타 사이트 캐시 보존, 준비물 저장·10일 일정·4탭·지도40링크도 통과했다. npm test14/14, build, Pillow96개 전수 디코딩·규격·비율·용량·메타데이터·비중복 검사 통과. 실제 iPhone Safari와 PR 배포·라이브 환율·실제 과거 배포 번들 전체 마이그레이션은 미검증이다.
